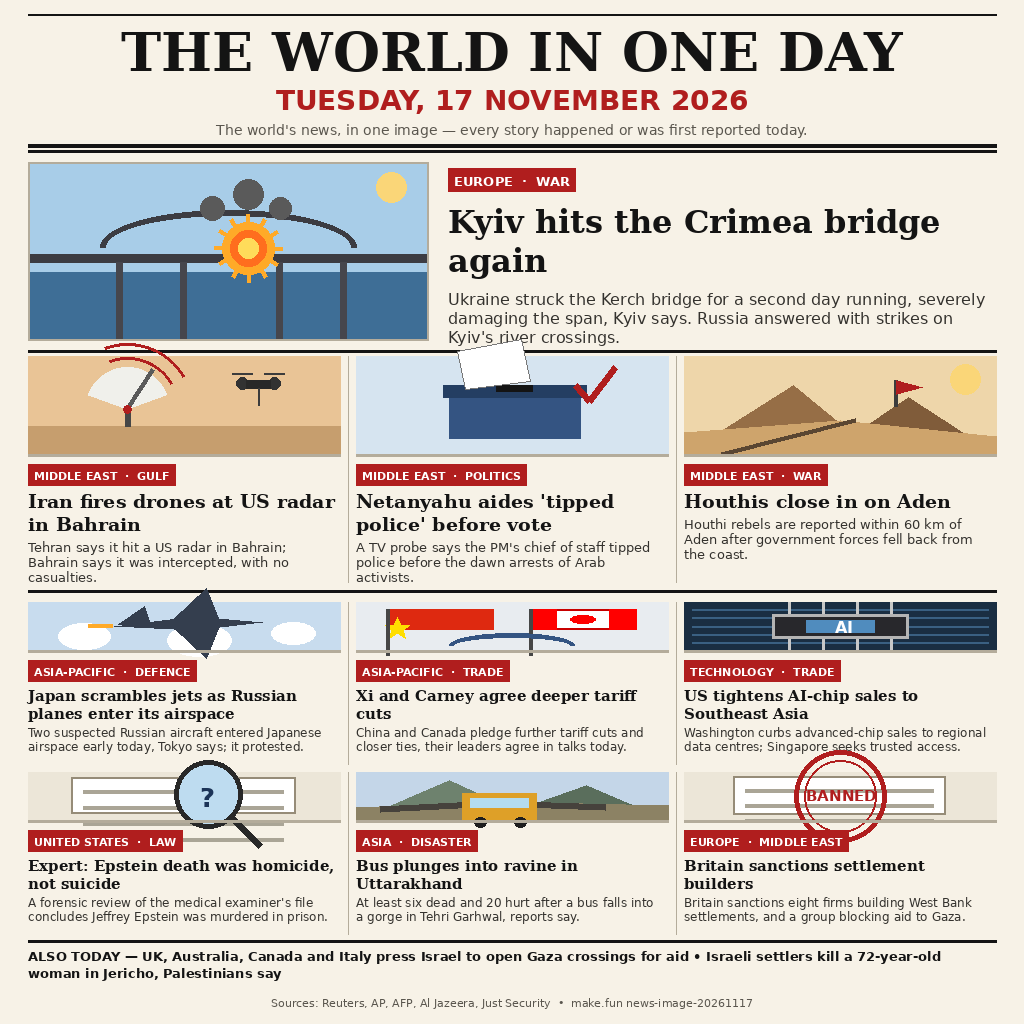
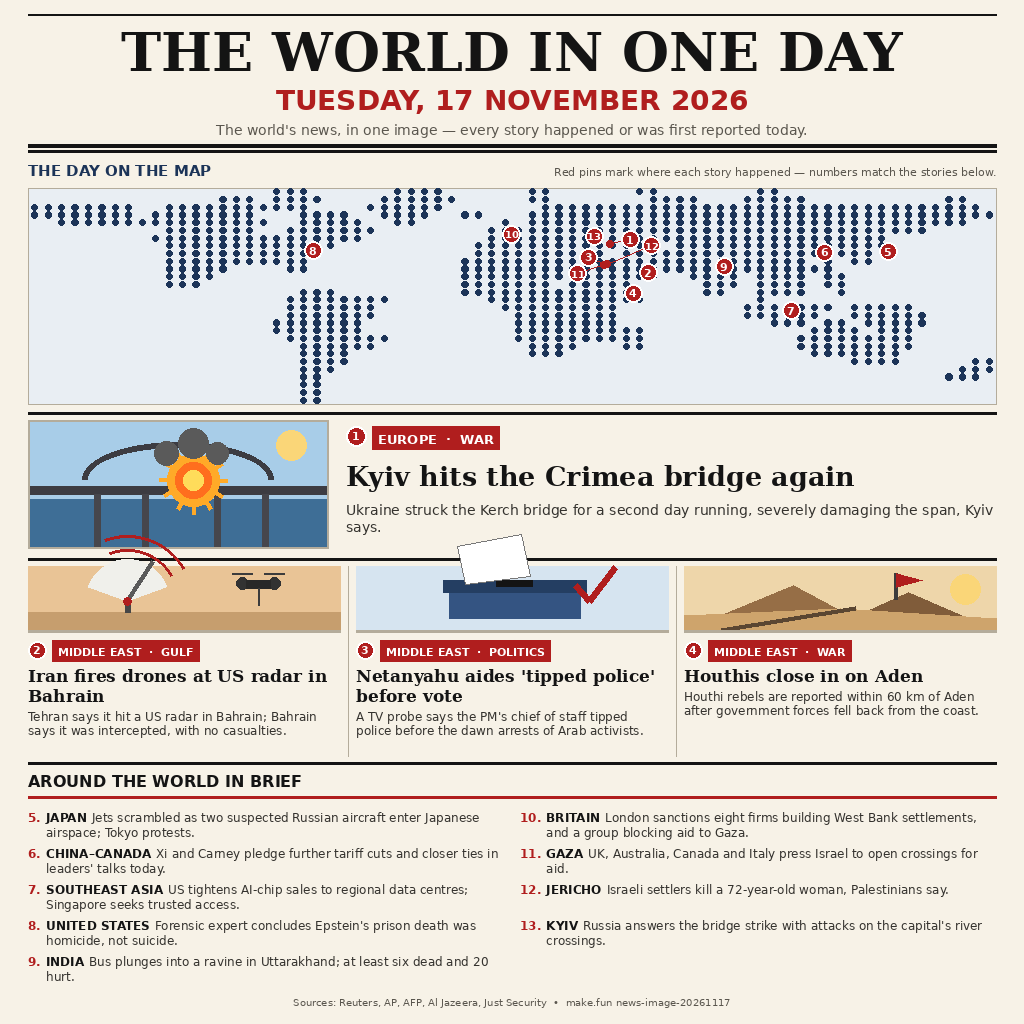
V2: world map with story pins + briefs layout

diff --git a/compose.py b/compose.py
@@ -1,10 +1,11 @@
 #!/usr/bin/env python3
 """Compose the entry image for make.fun news-image-20261117.
 
-A one-page broadsheet summing up Tuesday 17 November 2026: one hero
-story, three pictured panels, six grid stories and an "also today" strip.
-Every letter is rendered by code (DejaVu); every illustration is drawn
-with PIL shapes in this file. No photos, no copied artwork.
+A one-page broadsheet summing up Tuesday 17 November 2026: a dotted
+world map with numbered story pins, one hero story, three pictured
+panels and nine one-line briefs. Every letter is rendered by code
+(DejaVu); every illustration is drawn with PIL shapes in this file.
+No photos, no copied artwork.
 
 Run: python3 compose.py  -> writes entry.png next to this file.
 """
@@ -287,8 +288,7 @@ LEAD = {
     "kicker": "EUROPE  ·  WAR",
     "headline": "Kyiv hits the Crimea bridge again",
     "summary": ("Ukraine struck the Kerch bridge for a second day running, "
-                "severely damaging the span, Kyiv says. Russia answered "
-                "with strikes on Kyiv's river crossings."),
+                "severely damaging the span, Kyiv says."),
     "scene": "bridge",
 }
 
@@ -307,36 +307,83 @@ PANELS = [
      "scene": "yemen"},
 ]
 
-GRID = [
-    {"kicker": "ASIA-PACIFIC  ·  DEFENCE", "headline": "Japan scrambles jets as Russian planes enter its airspace",
-     "summary": ("Two suspected Russian aircraft entered Japanese airspace "
-                  "early today, Tokyo says; it protested."),
-     "scene": "jet"},
-    {"kicker": "ASIA-PACIFIC  ·  TRADE", "headline": "Xi and Carney agree deeper tariff cuts",
-     "summary": ("China and Canada pledge further tariff cuts and closer "
-                  "ties, their leaders agree in talks today."),
-     "scene": "flags"},
-    {"kicker": "TECHNOLOGY  ·  TRADE", "headline": "US tightens AI-chip sales to Southeast Asia",
-     "summary": ("Washington curbs advanced-chip sales to regional data "
-                  "centres; Singapore seeks trusted access."),
-     "scene": "chip"},
-    {"kicker": "UNITED STATES  ·  LAW", "headline": "Expert: Epstein death was homicide, not suicide",
-     "summary": ("A forensic review of the medical examiner's file concludes "
-                  "Jeffrey Epstein was murdered in prison."),
-     "scene": "magnifier"},
-    {"kicker": "ASIA  ·  DISASTER", "headline": "Bus plunges into ravine in Uttarakhand",
-     "summary": ("At least six dead and 20 hurt after a bus falls into a "
-                  "gorge in Tehri Garhwal, reports say."),
-     "scene": "bus"},
-    {"kicker": "EUROPE  ·  MIDDLE EAST", "headline": "Britain sanctions settlement builders",
-     "summary": ("Britain sanctions eight firms building West Bank "
-                  "settlements, and a group blocking aid to Gaza."),
-     "scene": "stamp"},
+BRIEFS = [
+    {"num": 5, "place": "JAPAN",
+     "text": "Jets scrambled as two suspected Russian aircraft enter Japanese airspace; Tokyo protests."},
+    {"num": 6, "place": "CHINA–CANADA",
+     "text": "Xi and Carney pledge further tariff cuts and closer ties in leaders' talks today."},
+    {"num": 7, "place": "SOUTHEAST ASIA",
+     "text": "US tightens AI-chip sales to regional data centres; Singapore seeks trusted access."},
+    {"num": 8, "place": "UNITED STATES",
+     "text": "Forensic expert concludes Epstein's prison death was homicide, not suicide."},
+    {"num": 9, "place": "INDIA",
+     "text": "Bus plunges into a ravine in Uttarakhand; at least six dead and 20 hurt."},
+    {"num": 10, "place": "BRITAIN",
+     "text": "London sanctions eight firms building West Bank settlements, and a group blocking aid to Gaza."},
+    {"num": 11, "place": "GAZA",
+     "text": "UK, Australia, Canada and Italy press Israel to open crossings for aid."},
+    {"num": 12, "place": "JERICHO",
+     "text": "Israeli settlers kill a 72-year-old woman, Palestinians say."},
+    {"num": 13, "place": "KYIV",
+     "text": "Russia answers the bridge strike with attacks on the capital's river crossings."},
 ]
 
-ALSO = ("ALSO TODAY —  UK, Australia, Canada and Italy press Israel to open Gaza "
-        "crossings for aid  •  Israeli settlers kill a 72-year-old woman in "
-        "Jericho, Palestinians say")
+# ------------------------------------------------------------- world map
+# Dotted world map: a 72 x 28 ASCII landmask, '#' is land, '.' is sea.
+# Equirectangular: column c spans longitude -180+5c .. -175+5c; row r
+# spans latitude 82-5.07r .. 82-5.07(r+1). Continents are drawn a touch
+# tall to offset the wide, short panel.
+MAP_LAT_TOP, MAP_LAT_BOT = 82.0, -60.0
+LANDMASK = [
+    "............" "......###..." "...####....." ".##......##." "......##...." "............",
+    "............" "..###.####.." "..######...." ".##.......##" "##...#####.." "........##..",
+    "########..##" "#########..." ".######....." "..##########" "############" "###########.",
+    "########.###" "#####...####" "..####..##.." ".###########" "############" "############",
+    "..##########" "######..####" "#..##......#" ".###########" "############" "##########..",
+    "..........##" "#####..#####" "##........##" "############" "############" "#######.....",
+    ".........###" "############" "#.........##" "############" "############" "####........",
+    "..........##" "###########." ".........###" "##########.." "############" "####........",
+    "..........##" "##########.." ".........###" "#######.####" "############" "###.........",
+    "..........##" "#########..." "........####" "############" "##########.#" ".##.........",
+    "..........##" "###....##..." "........####" "############" "############" "............",
+    "..........##" "##.........." "........####" "###########." ".####.####.#" "#...........",
+    "..........##" "#..........." "........####" "###.#####..." "..###.####.#" "#...........",
+    "............" "........###." "........####" "##########.." "..##..####.." "#...........",
+    "............" ".......#####" "###.......##" "##########.." "......#....." "............",
+    "............" ".......#####" "##.........#" "########...." ".....#######" ".#####......",
+    "............" ".......#####" "##.........." "########...." ".....######." ".######.....",
+    "............" "......######" "#..........." "########...." ".......###.#" "#.#####.....",
+    "............" "......######" "#..........." "##########.." "..........##" "##.###......",
+    "............" ".......#####" "###........." "##########.." ".........###" "######......",
+    "............" "........####" "##.........." ".####...##.." ".........###" "######......",
+    "............" "........####" "............" ".###........" "..........##" "#####.......",
+    "............" "........####" "............" "............" "............" ".####.....##",
+    "............" "........###." "............" "............" "............" ".........###",
+    "............" "........##.." "............" "............" "............" "........###.",
+    "............" "........##.." "............" "............" "............" "............",
+    "............" "........##.." "............" "............" "............" "............",
+    "............" "........##.." "............" "............" "............" "............",
+]
+
+# Story pins: num, story lon/lat, label lon/lat. The label sits on the
+# story unless it is a callout — the three Levant stories (3, 11, 12)
+# share one dot, so their labels fan out around it with leader lines,
+# and pin 1 labels east so it clears Kyiv (13) and the Levant fan.
+PINS = [
+    (1, 36.5, 45.2, 44.0, 48.0),      # Kerch bridge, Crimea — callout east
+    (2, 50.6, 26.2, 50.6, 26.2),      # Bahrain
+    (3, 35.2, 31.8, 28.5, 36.5),      # Israel — callout west
+    (4, 45.0, 12.8, 45.0, 12.8),      # Aden, Yemen
+    (5, 140.0, 40.0, 140.0, 40.0),    # Japan
+    (6, 116.4, 39.9, 116.4, 39.9),    # Beijing
+    (7, 103.8, 1.4, 103.8, 1.4),      # Singapore
+    (8, -74.0, 40.7, -74.0, 40.7),    # New York
+    (9, 79.0, 30.3, 79.0, 30.3),      # Uttarakhand, India
+    (10, -0.1, 51.5, -0.1, 51.5),     # London
+    (11, 34.3, 31.4, 24.5, 25.5),     # Gaza — callout south-west
+    (12, 35.5, 31.9, 52.0, 44.0),     # Jericho — callout east
+    (13, 30.5, 50.4, 30.5, 50.4),     # Kyiv
+]
 
 
 def kicker_chip(d, x, y, text, fnt):
@@ -346,7 +393,8 @@ def kicker_chip(d, x, y, text, fnt):
     return tw + 12
 
 
-def story_cell(d, x, y, w, h, story, head_size, sum_size, art_h, art=True):
+def story_cell(d, x, y, w, h, story, head_size, sum_size, art_h, art=True,
+               num=None):
     """One story: optional illustration strip, kicker chip, headline, summary."""
     ty = y
     if art:
@@ -354,7 +402,11 @@ def story_cell(d, x, y, w, h, story, head_size, sum_size, art_h, art=True):
         d.rectangle([x, y + art_h, x + w, y + art_h + 2], fill=RULE)
         ty = y + art_h + 10
     kf = font(SANS_B, 11)
-    kicker_chip(d, x, ty, story["kicker"], kf)
+    if num is not None:
+        num_badge(d, x + 9, ty + 10, num, 9)
+        kicker_chip(d, x + 24, ty, story["kicker"], kf)
+    else:
+        kicker_chip(d, x, ty, story["kicker"], kf)
     ty += 26
     hf = font(SERIF, head_size)
     lines = wrap(d, story["headline"], hf, w - 4)
@@ -363,6 +415,69 @@ def story_cell(d, x, y, w, h, story, head_size, sum_size, art_h, art=True):
     sf = font(SANS, sum_size)
     lines = wrap(d, story["summary"], sf, w - 4)
     draw_text_block(d, x, ty, w - 4, lines, sf, (52, 50, 46))
+
+
+def num_badge(d, cx, cy, num, r):
+    """A red pin/badge: filled circle, white ring, white number."""
+    d.ellipse([cx - r, cy - r, cx + r, cy + r], fill=RED,
+              outline=(255, 255, 255), width=2)
+    f = font(SANS_B, 11 if num < 10 else 10)
+    d.text((cx, cy), str(num), font=f, fill=(255, 255, 255), anchor="mm")
+
+
+def map_xy(x0, y0, w, h, lon, lat):
+    """Equirectangular projection onto the map panel."""
+    fx = (lon + 180.0) / 360.0
+    fy = (MAP_LAT_TOP - lat) / (MAP_LAT_TOP - MAP_LAT_BOT)
+    return x0 + fx * w, y0 + fy * h
+
+
+def draw_map(d, x0, y0, w, h):
+    """Dotted continents from LANDMASK, then the numbered story pins."""
+    cols, rows = 72, 28
+    dx, dy = w / cols, h / rows
+    r = 3.1
+    for ri, row in enumerate(LANDMASK):
+        for ci, ch in enumerate(row):
+            if ch == "#":
+                cx, cy = x0 + (ci + 0.5) * dx, y0 + (ri + 0.5) * dy
+                d.ellipse([cx - r, cy - r, cx + r, cy + r], fill=NAVY)
+    for num, lon, lat, llon, llat in PINS:
+        tx, ty = map_xy(x0, y0, w, h, lon, lat)
+        if (llon, llat) != (lon, lat):
+            lx, ly = map_xy(x0, y0, w, h, llon, llat)
+            d.line([lx, ly, tx, ty], fill=RED, width=1)
+            d.ellipse([tx - 3.5, ty - 3.5, tx + 3.5, ty + 3.5], fill=RED)
+            num_badge(d, lx, ly, num, 9)
+        else:
+            num_badge(d, tx, ty, num, 9)
+
+
+def draw_brief(d, x, y, w, brief):
+    """One brief: red number, bold place name, one-liner wrapped under it."""
+    nf = font(SANS_B, 12)
+    pf = font(SANS_B, 12)
+    tf = font(SANS, 12)
+    head = f"{brief['num']}."
+    d.text((x, y), head, font=nf, fill=RED)
+    hx = x + d.textlength(head, font=nf) + 5
+    d.text((hx, y), brief["place"], font=pf, fill=INK)
+    px = hx + d.textlength(brief["place"], font=pf) + 5
+    words = brief["text"].split()
+    lines, cur, avail = [], "", w - (px - x)
+    for word in words:
+        trial = (cur + " " + word).strip()
+        if d.textlength(trial, font=tf) <= avail:
+            cur = trial
+        else:
+            if cur:
+                lines.append(cur)
+            cur, avail = word, w - int(d.textlength(head, font=nf)) - 5
+    if cur:
+        lines.append(cur)
+    for i, line in enumerate(lines[:3]):
+        lx = px if i == 0 else hx
+        d.text((lx, y + i * 15), line, font=tf, fill=(52, 50, 46))
 
 
 def main():
@@ -387,54 +502,61 @@ def main():
     d.rectangle([M, 144, W - M, 147], fill=INK)
     d.rectangle([M, 150, W - M, 152], fill=INK)
 
+    # ---- world map band: dotted continents, numbered pins per story
+    mh_f = font(SANS_B, 15)
+    d.text((M, 162), "THE DAY ON THE MAP", font=mh_f, fill=NAVY)
+    note_f = font(SANS, 11)
+    note = "Red pins mark where each story happened — numbers match the stories below."
+    nw = d.textlength(note, font=note_f)
+    d.text((W - M - nw, 165), note, font=note_f, fill=GREY)
+    map_y, map_h = 188, 216
+    d.rectangle([M, map_y, W - M, map_y + map_h], fill=(233, 238, 243))
+    d.rectangle([M, map_y, W - M, map_y + map_h], outline=RULE, width=1)
+    draw_map(d, M, map_y, W - 2 * M, map_h)
+    d.rectangle([M, map_y + map_h + 8, W - M, map_y + map_h + 10], fill=INK)
+
     # ---- hero lead story
-    hy, hh = 162, 178
-    SCENES[LEAD["scene"]](d, M, hy, 400, hh)
-    d.rectangle([M, hy, M + 400, hy + hh], outline=RULE, width=2)
-    tx = M + 420
+    hy, hh = 420, 128
+    SCENES[LEAD["scene"]](d, M, hy, 300, hh)
+    d.rectangle([M, hy, M + 300, hy + hh], outline=RULE, width=2)
+    tx = M + 318
     tw_ = W - M - tx
     kf = font(SANS_B, 13)
-    kicker_chip(d, tx, hy + 6, LEAD["kicker"], kf)
-    hf = font(SERIF, 32)
+    num_badge(d, tx + 10, hy + 16, 1, 10)
+    kicker_chip(d, tx + 26, hy + 6, LEAD["kicker"], kf)
+    hf = font(SERIF, 27)
     lines = wrap(d, LEAD["headline"], hf, tw_)
     ty = draw_text_block(d, tx, hy + 40, tw_, lines, hf, INK)
-    sf = font(SANS, 16)
+    sf = font(SANS, 14)
     lines = wrap(d, LEAD["summary"], sf, tw_)
     draw_text_block(d, tx, ty + 10, tw_, lines, sf, (52, 50, 46))
     d.rectangle([M, hy + hh + 10, W - M, hy + hh + 12], fill=INK)
 
     # ---- three pictured panels
-    py, ph = 356, 226
+    py, ph = 566, 190
     pw = (W - 2 * M - 2 * 16) // 3
     for i, story in enumerate(PANELS):
         px = M + i * (pw + 16)
-        story_cell(d, px, py, pw, ph, story, 19, 13, 98)
+        story_cell(d, px, py, pw, ph, story, 17, 12, 64, num=i + 2)
         if i < 2:
             d.line([px + pw + 8, py, px + pw + 8, py + ph], fill=RULE, width=1)
-    d.rectangle([M, py + ph + 8, W - M, py + ph + 10], fill=INK)
+    d.rectangle([M, py + ph + 6, W - M, py + ph + 8], fill=INK)
 
-    # ---- six grid stories, 3 x 2
-    gy = 602
-    gh = 162
-    gw = (W - 2 * M - 2 * 16) // 3
-    for i, story in enumerate(GRID):
-        row, col = divmod(i, 3)
-        gx = M + col * (gw + 16)
-        gyi = gy + row * (gh + 8)
-        story_cell(d, gx, gyi, gw, gh, story, 15, 12, 48)
-        if col < 2:
-            d.line([gx + gw + 8, gyi, gx + gw + 8, gyi + gh], fill=RULE, width=1)
-    d.rectangle([M, gy + 2 * gh + 8 + 6, W - M, gy + 2 * gh + 8 + 8], fill=INK)
+    # ---- around the world in brief: nine one-liners, two columns
+    by = 772
+    bf = font(SANS_B, 16)
+    d.text((M, by), "AROUND THE WORLD IN BRIEF", font=bf, fill=INK)
+    d.rectangle([M, by + 24, W - M, by + 26], fill=RED)
+    col_w = (W - 2 * M - 16) // 2
+    rows_y = by + 38
+    for i, brief in enumerate(BRIEFS):
+        col = 0 if i < 5 else 1
+        row = i if i < 5 else i - 5
+        bx = M + col * (col_w + 16)
+        draw_brief(d, bx, rows_y + row * 36, col_w, brief)
 
-    # ---- also-today strip + footer
-    fy = 948
-    af = font(SANS_B, 13)
-    lines = wrap(d, ALSO, af, W - 2 * M)
-    ty = fy
-    for line in lines:
-        d.text((M, ty), line, font=af, fill=INK)
-        ty += 17
-    foot_f = font(SANS, 11)
+    # ---- footer
+    foot_f = font(SANS, 10)
     foot = "Sources: Reuters, AP, AFP, Al Jazeera, Just Security  •  make.fun news-image-20261117"
     fw = d.textlength(foot, font=foot_f)
     d.text(((W - fw) / 2, 996), foot, font=foot_f, fill=GREY)
